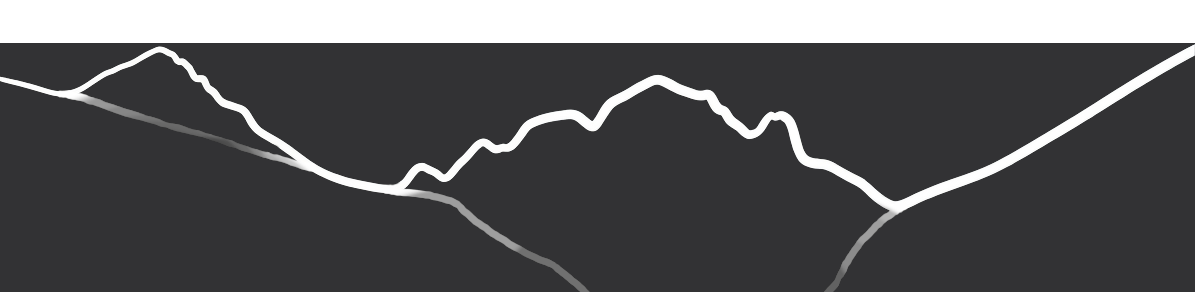
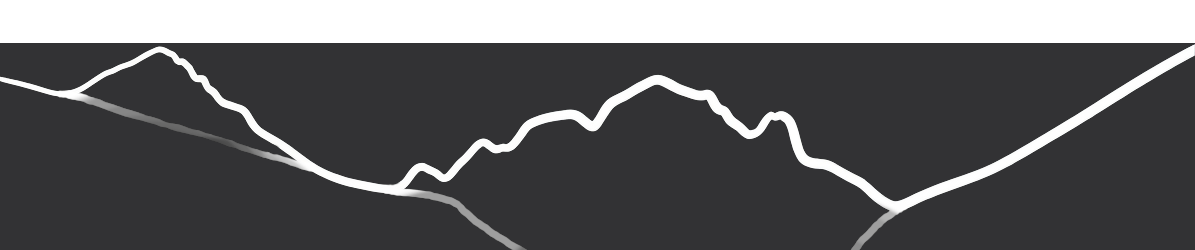
Taller mobile header, buttons at bottom, transparent sky
- Transparent above ridge line, lighter gray below
- More bottom crop on mountains PNG
- Increased mobile header height, nav buttons pushed to bottom

Claude-Session: https://claude.ai/code/session_015MK9EoPBRGma6Gf3kawg89

Changed region(s): [[0.0, 0.14, 1.0, 1.0]]

diff --git a/index.html b/index.html
@@ -105,7 +105,7 @@
     /* ── Header ── */
     .hdr {
       display: flex; flex-direction: column;
-      padding: calc(24px + env(safe-area-inset-top)) 14px 24px; gap: 6px;
+      padding: calc(10px + env(safe-area-inset-top)) 14px 10px; gap: 6px;
       flex-shrink: 0;
       border-bottom: 1px solid var(--border);
       background: var(--bg);
@@ -206,6 +206,7 @@
       .nav-settings { margin-top: 0; margin-bottom: 0; }
       .hdr-brand-mobile { display: none; }
       .hdr-mountains-mobile { display: block; }
+      .hdr { padding-top: calc(44px + env(safe-area-inset-top)); justify-content: flex-end; }
       .hdr-book.btn { font-size: 0; width: 30px; height: 30px; padding: 0; border-radius: 8px; }
       .hdr-book.btn::after { content: '+'; font-size: 20px; font-weight: 600; }
       .views-slider {